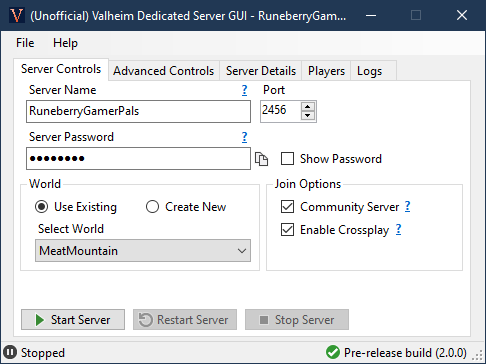
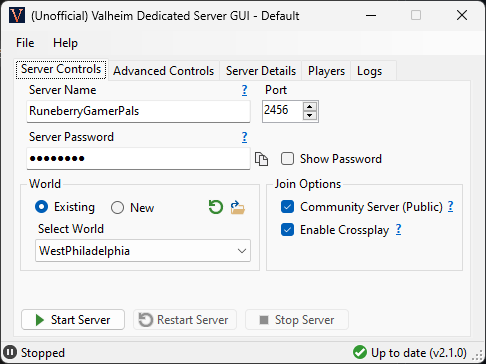
Update docs and screenshots for v2.1.0

diff --git a/README.md b/README.md
@@ -4,7 +4,7 @@ A simple user interface for running a [Valheim](https://www.valheimgame.com/) De
 
 Download the [latest release here](https://github.com/runeberry/ValheimServerGUI/releases). It's just a single, small .exe file!
 
-Need help? You can find support articles in the [Online Manual here](https://github.com/runeberry/ValheimServerGUI/wiki).
+Need help? Join our [Discord server](https://discord.gg/HBsNJTY) to ask questions or give feedback, or check out [Online Manual](https://github.com/runeberry/ValheimServerGUI/wiki) for answers to some common questions.
 
 **Disclaimer:** _This is a fan-made project. Runeberry Software is not affiliated with Valheim or Iron Gate Studio in any official capacity. Use at your own risk!_
 
@@ -23,7 +23,7 @@ Need help? You can find support articles in the [Online Manual here](https://git
 
 In order to run ValheimServerGUI, you will need the following:
 
-* **Windows 10 x64-based PC** - Other Windows configurations may or may not work. 🤷♀
+* **Windows 10 or 11 x64-based PC** - Other Windows configurations may or may not work. 🤷♀
 * **.NET 6 Desktop Runtime** - If you don't have it, you should be prompted to install it when you first run this app. Otherwise, you can install the latest release [here](https://dotnet.microsoft.com/download/dotnet/6.0) (under ".NET Desktop Runtime 6.X.X").
 * **Valheim Dedicated Server** - Comes free with your purchase of Valheim. See the installation guide [here](https://github.com/runeberry/ValheimServerGUI/wiki/Installing-Valheim-Dedicated-Server).
 
@@ -63,6 +63,7 @@ Interesting in contributing code to ValheimServerGUI? Check out the guidelines a
 
 Got suggestions, feedback, or want to report a bug? Here's how you can reach me:
 
+* Post in the **#vsg-support** channel on our [Discord](https://discord.gg/HBsNJTY) server.
 * Create a [GitHub issue](https://github.com/runeberry/ValheimServerGUI/issues/new) - Include as many details as you can for bug reports!
 * Submit a bug report in the app itself (Help > Submit a Bug Report). This will include logs & machine info to help troubleshoot the problem.
 * Send me an email - feedback@runeberry.com
